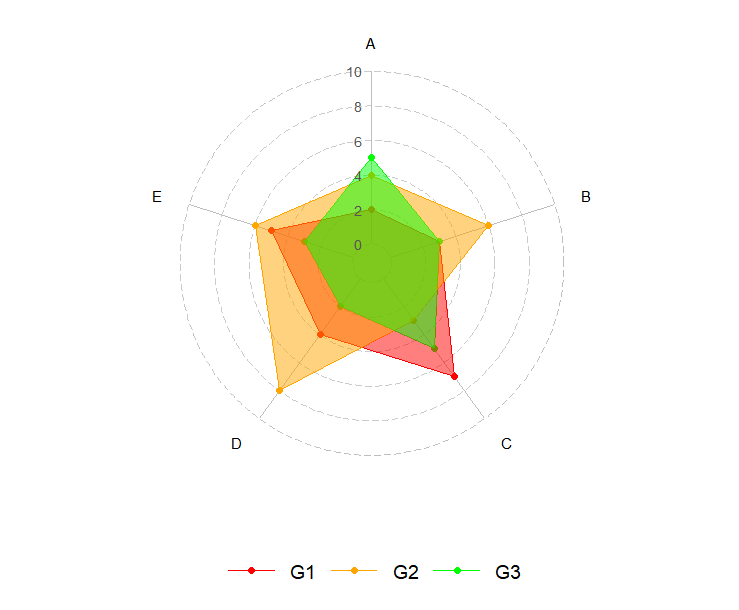
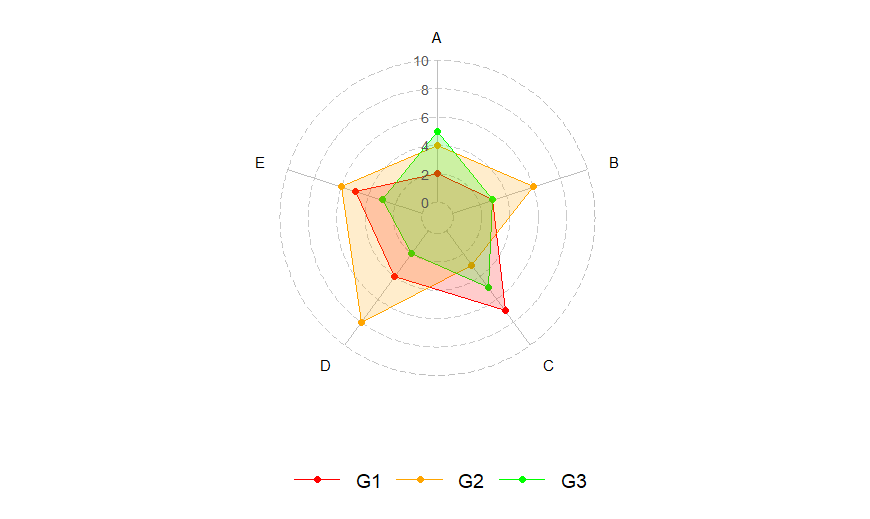
ggradar2 version 0.3

diff --git a/README.md b/README.md
@@ -2,15 +2,7 @@ ggradar2
 ================
 
 `ggradar2` allows you to build radar charts (aka spider charts) with ggplot2. 
-This package is based on [Paul
-Williamson’s](http://rstudio-pubs-static.s3.amazonaws.com/5795_e6e6411731bb4f1b9cc7eb49499c2082.html)
-code, with new aesthetics and compatibility with ggplot2 2.0.
-
-It was inspired by
-[d3radaR](http://www.buildingwidgets.com/blog/2015/12/9/week-49-d3radarr),
-an htmlwidget built by
-[timelyportfolio](https://github.com/timelyportfolio).
-
+This package is based on [ggradar](https://github.com/ricardo-bion/ggradar) created by [Ricardo Bion](https://github.com/ricardo-bion).
 
 ## Notes
 
@@ -18,11 +10,12 @@ an htmlwidget built by
 - The names of many other contributors are not listed one by one, such as [Pedro Sartori](https://github.com/pedrosdr/ggradar/tree/ggradar2).
 - The original "ggradar" package could be found [here](https://github.com/ricardo-bion/ggradar).
 
-
 ## Install `ggradar2`
 
 ``` r
 devtools::install_github("PhDMeiwp/ggradar2", dependencies = TRUE)
+
+remotes::install_git("https://gitee.com/meiweiping/ggradar2.git")
 ```
 
 If the above method fail, please try downloading the .Zip or .tar.gz file of this R package to your local path of your computer,
@@ -37,7 +30,6 @@ devtools::install_local("~/ggradar2_0.3.tar.gz")    # tar.gz file
 ```
 
 ## Use `ggradar2`
-
 
 ``` r
 library(ggradar2) 
@@ -122,7 +114,7 @@ ggradar2(df,
         group.point.size = 2,
         group.colours = c("red","orange","green"),
         fill = TRUE,
-        fill.alpha = 0.5,
+        fill.alpha = 0.2,
         axis.label.offset = 1.15,
         axis.label.size = 4,
         background.circle.colour = "white"
